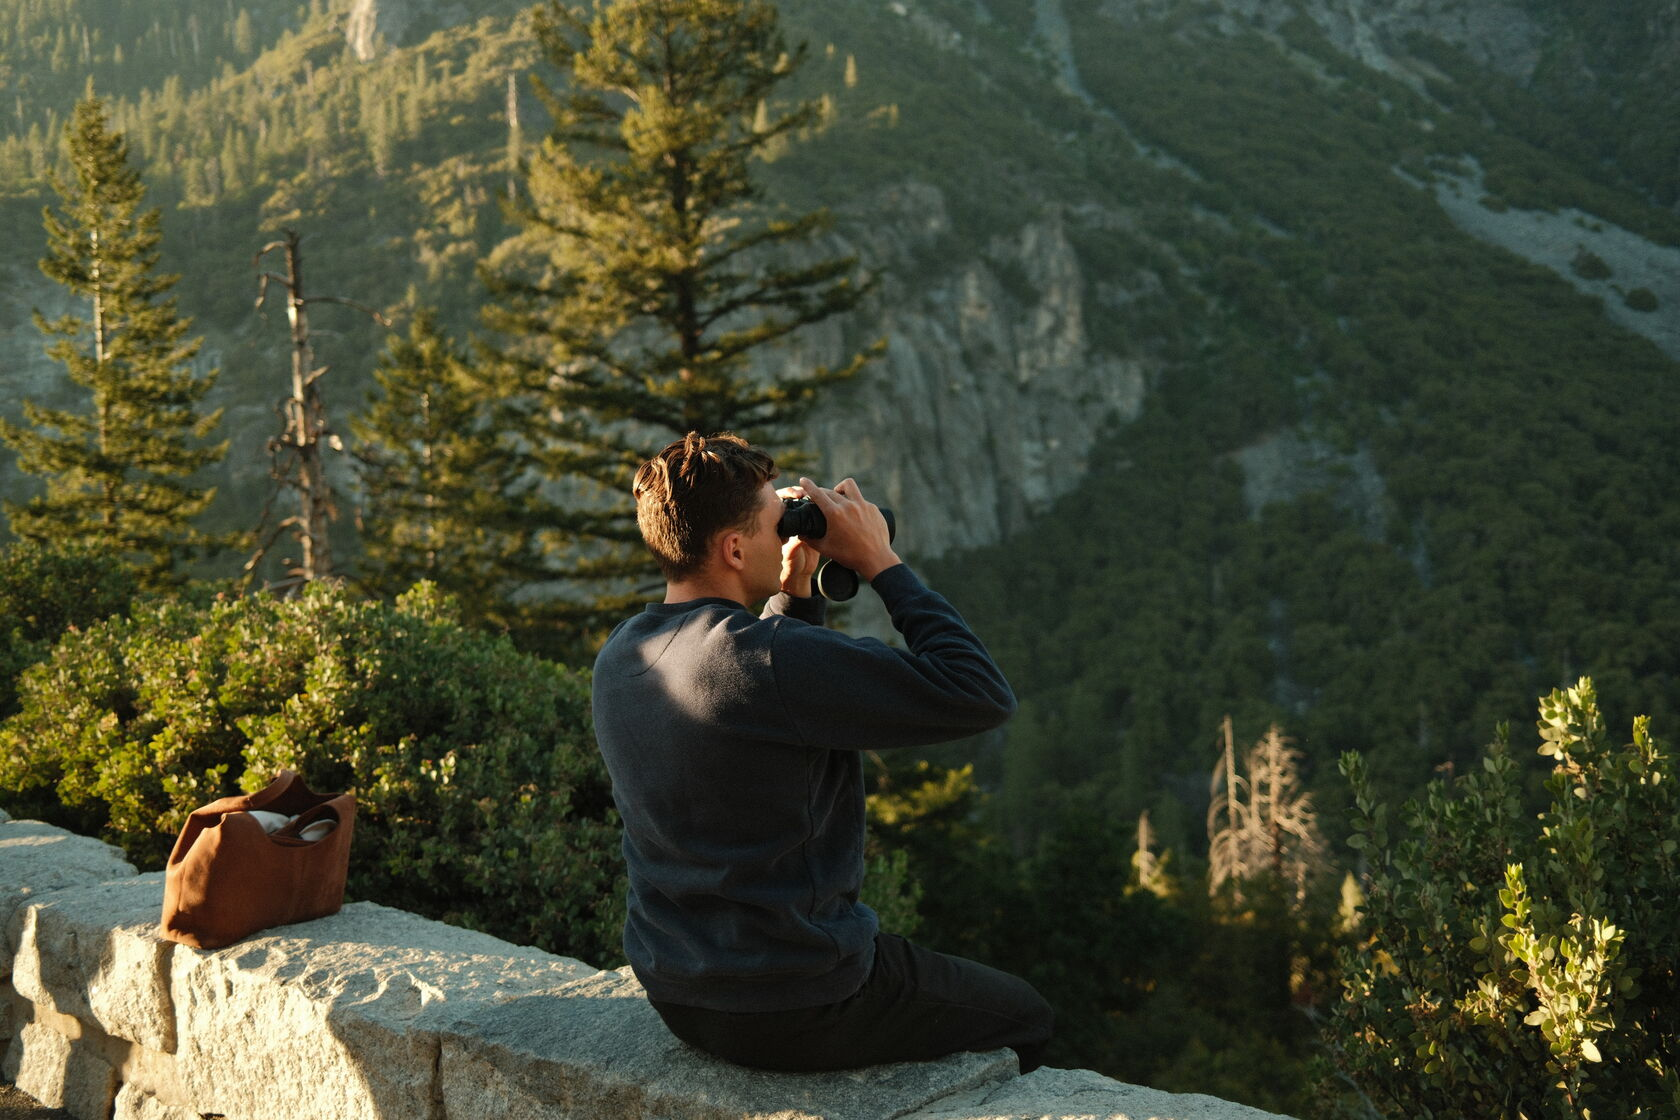
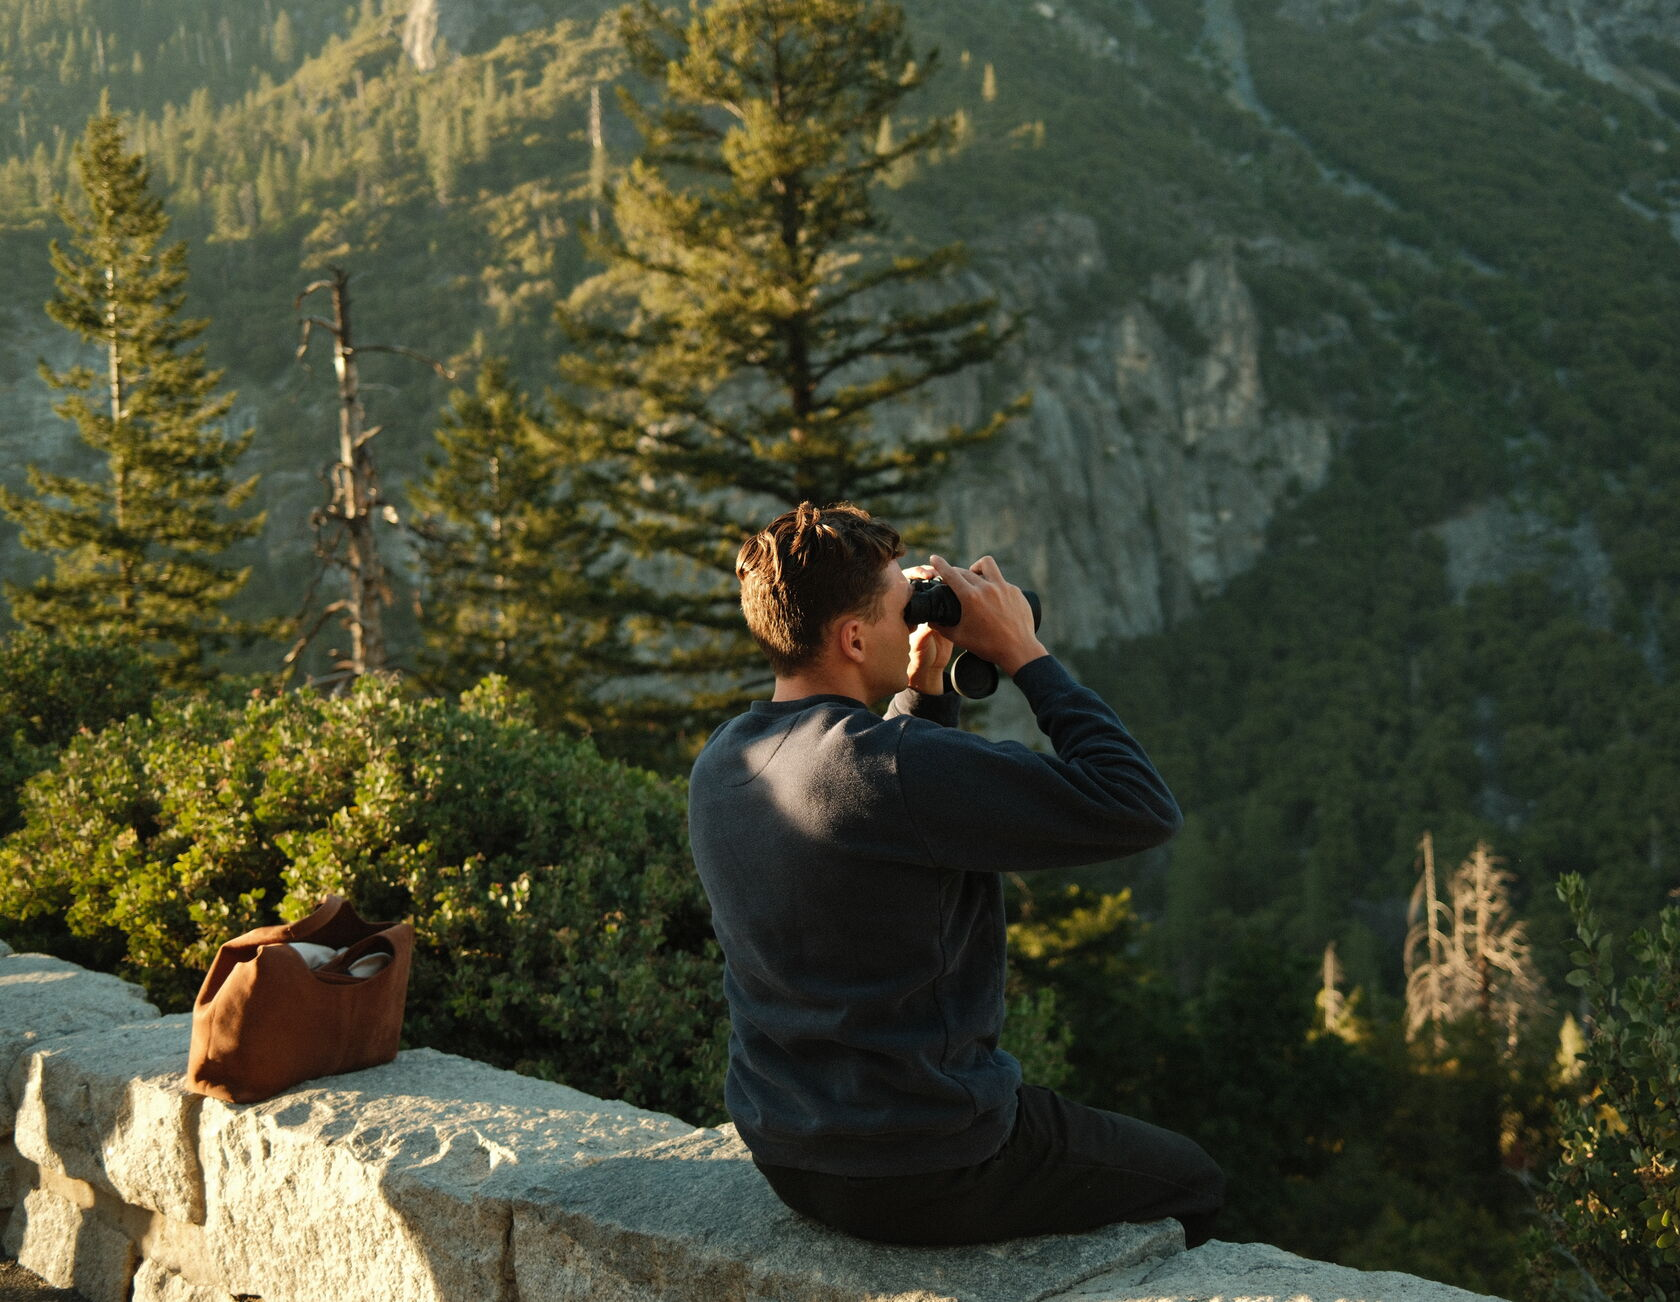
daylight: re-crop source to center subject

diff --git a/index.html b/index.html
@@ -128,7 +128,7 @@ h2{font-family:var(--serif);font-weight:600;font-size:1.65rem;letter-spacing:-.0
 .skill p{color:var(--graphite);font-size:.9rem}
 /* ---------- divider photo ---------- */
 .daylight{margin:64px 0 0;position:relative}
-.daylight img{display:block;width:100%;height:clamp(340px,46vw,580px);object-fit:cover;object-position:56% 25%}
+.daylight img{display:block;width:100%;height:clamp(340px,46vw,580px);object-fit:cover;object-position:50% 30%}
 .daylight figcaption{position:absolute;bottom:0;left:0;right:0;padding:14px 24px;background:linear-gradient(transparent,rgba(22,33,27,.78));color:#F6F8F6;font-family:var(--mono);font-size:.76rem}
 /* ---------- about ---------- */
 .about{display:grid;grid-template-columns:250px 1fr;gap:38px;align-items:start;margin-top:22px}
@@ -363,7 +363,7 @@ footer .wrap{display:flex;justify-content:space-between;flex-wrap:wrap;gap:10px;
 </section>
 
 <figure class="daylight">
-  <img src="assets/yosemite.jpg" alt="Peter at a Yosemite overlook with binoculars" loading="lazy" width="1680" height="1120" decoding="async">
+  <img src="assets/yosemite.jpg" alt="Peter at a Yosemite overlook with binoculars" loading="lazy" width="1680" height="1302" decoding="async">
   <figcaption>off-hours: surf, national parks, and building things that probably didn't need to exist but do now.</figcaption>
 </figure>
 
